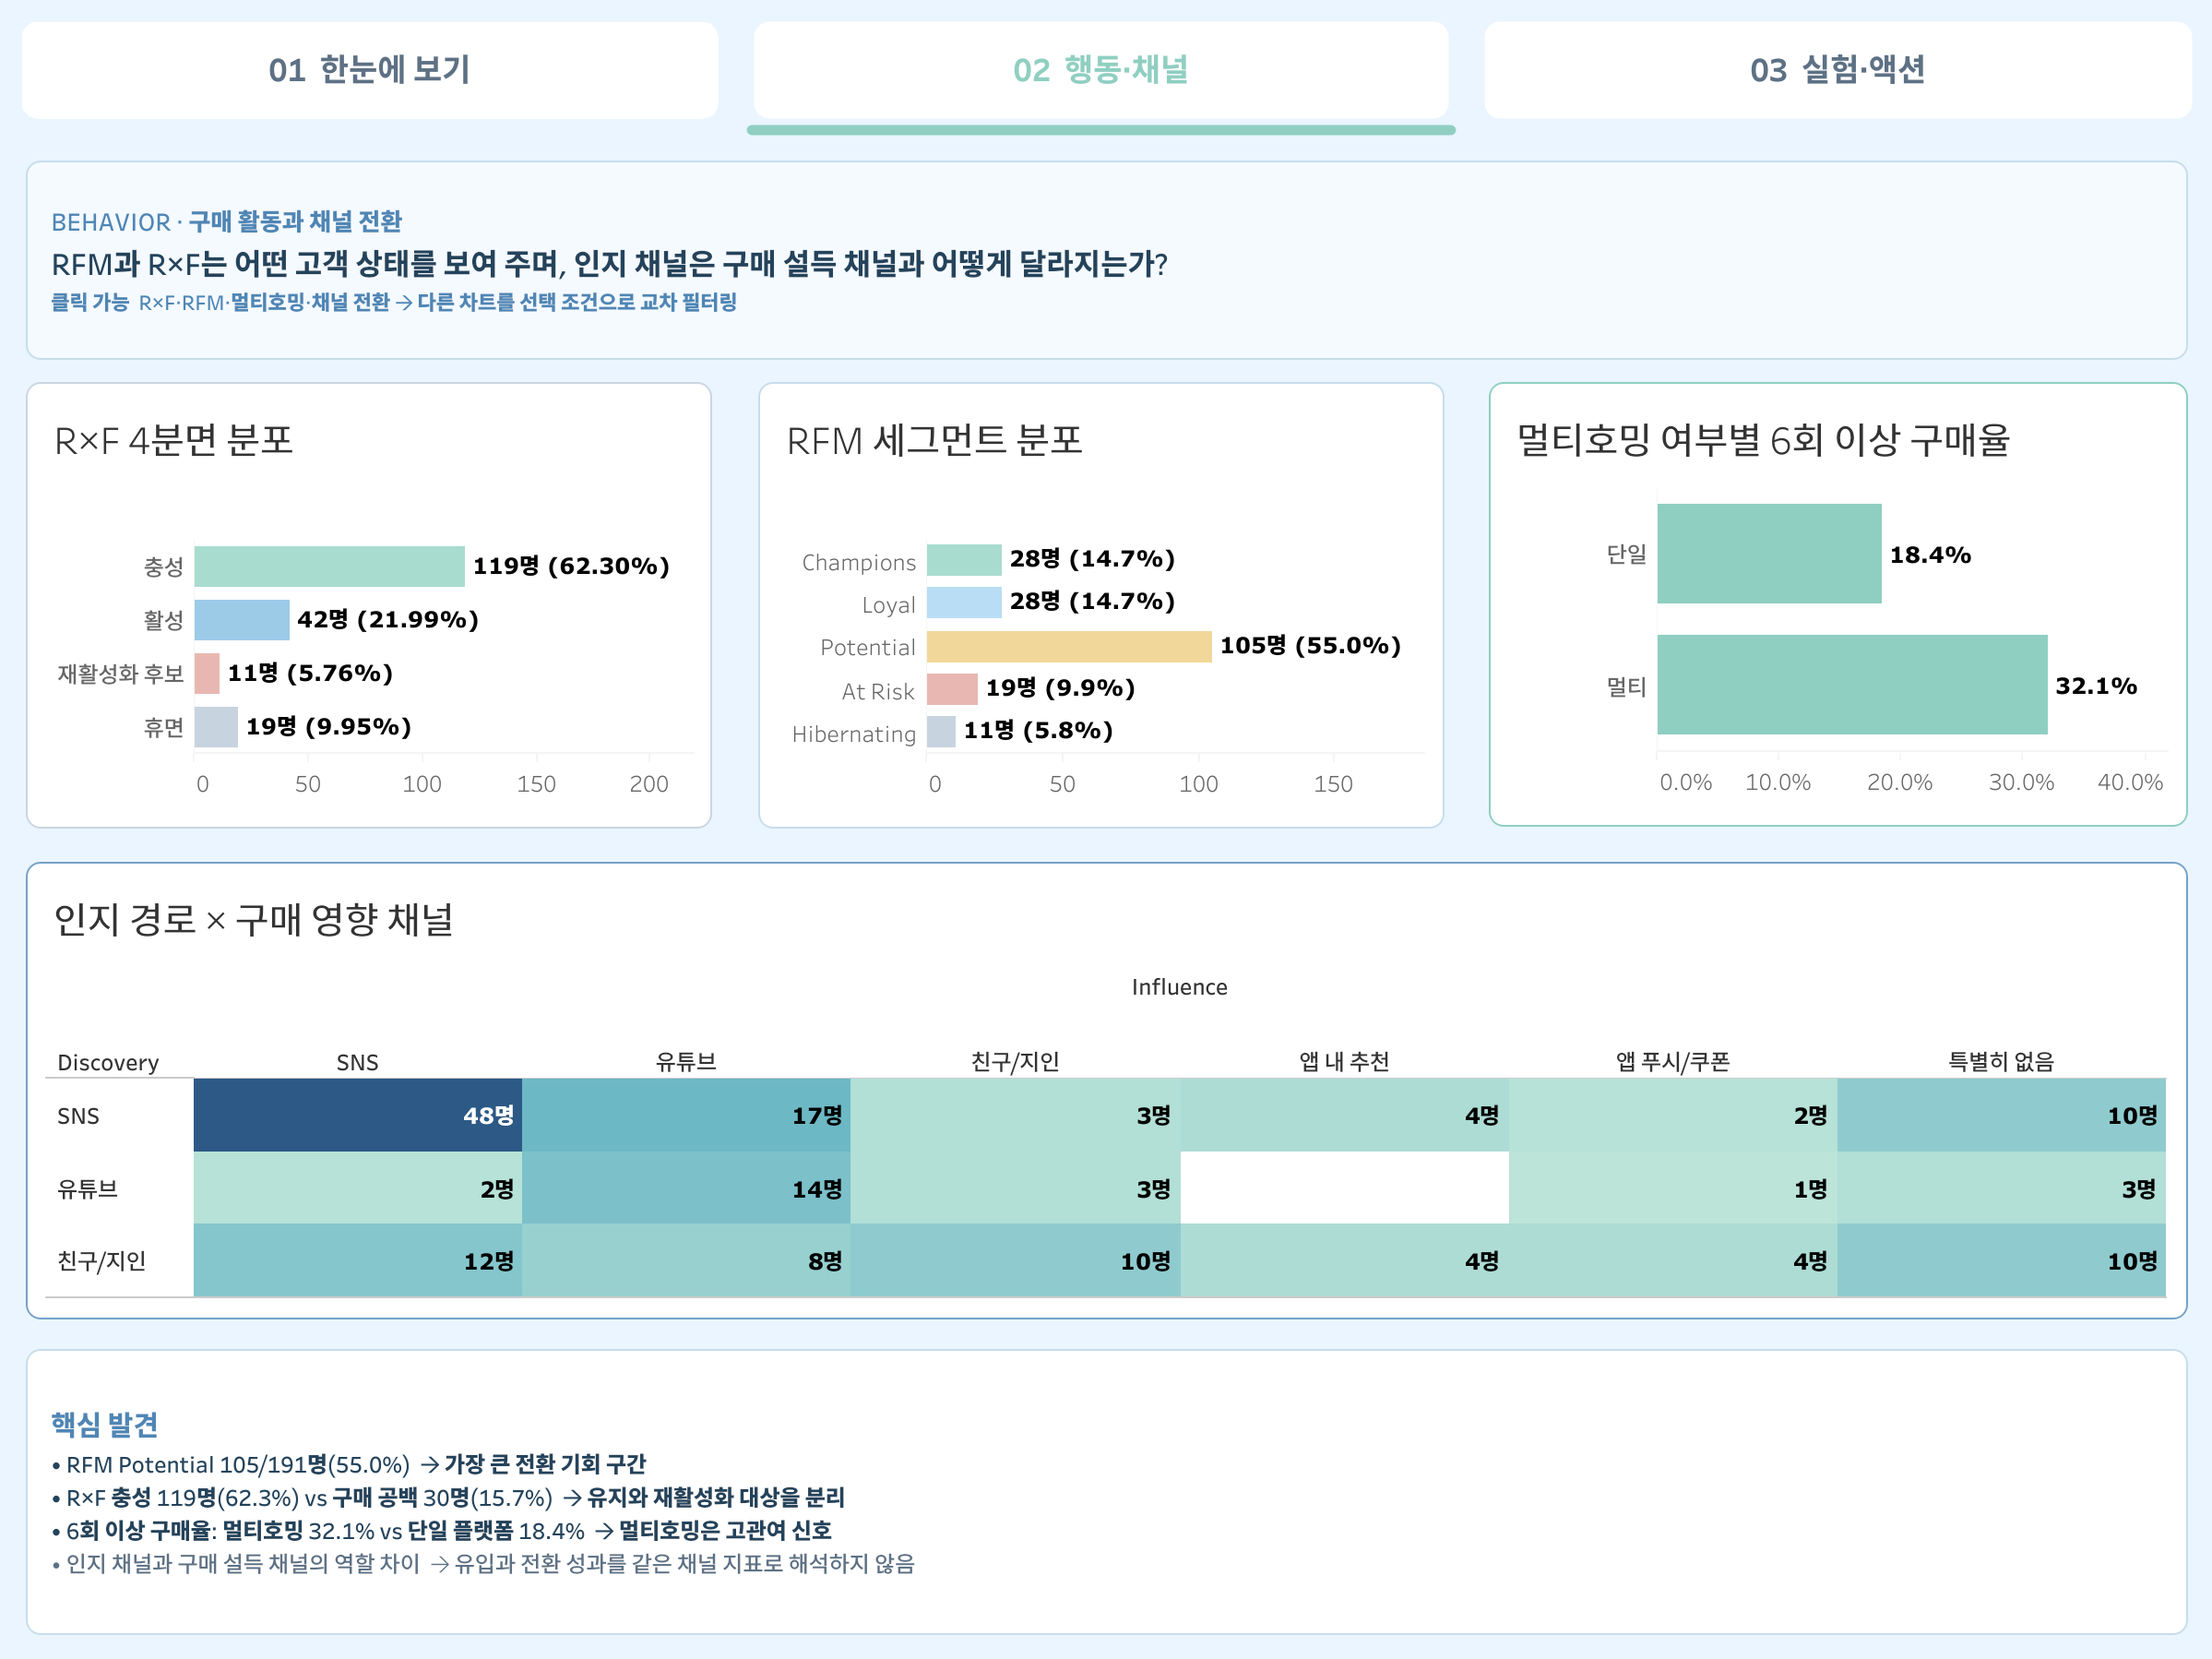
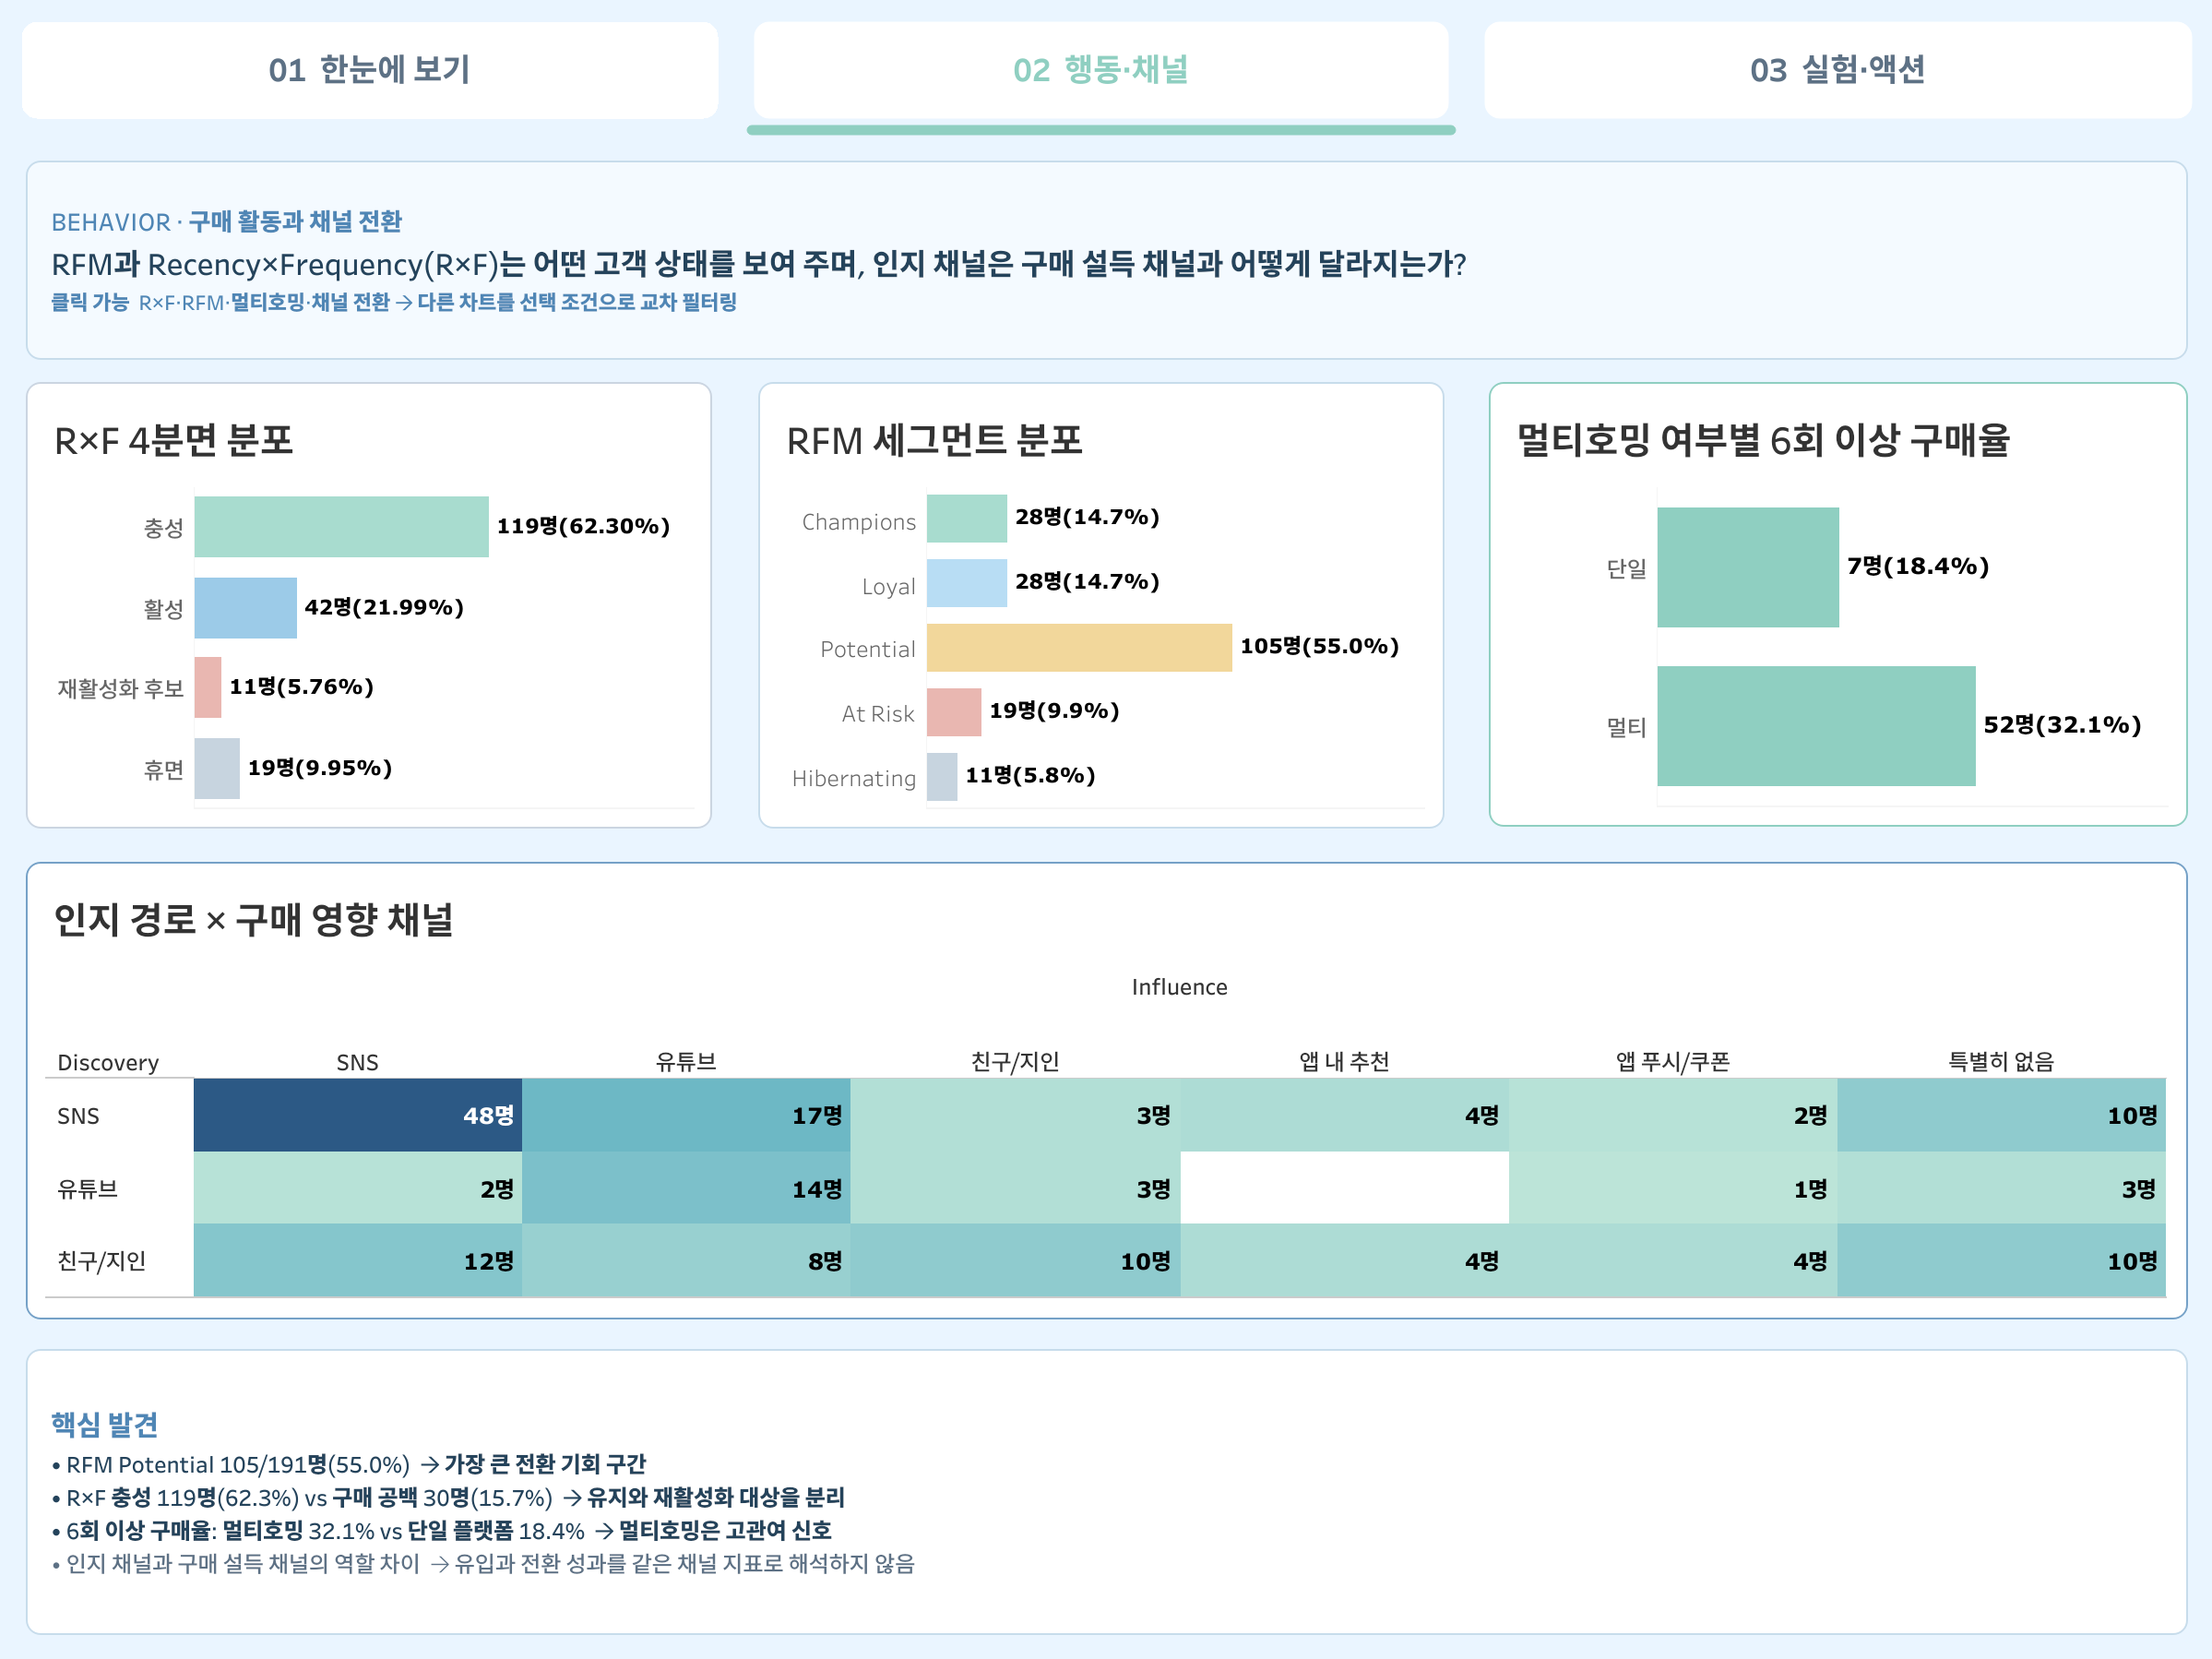
docs: update Tableau dashboard previews

diff --git a/README.md b/README.md
@@ -37,7 +37,7 @@
   <img src="assets/dashboard_experiment_action.png" width="100%" alt="03 실험·액션 — 문제 우선순위와 검증 설계">
 </p>
 
-🔗 **[Tableau Public에서 인터랙티브 대시보드 보기](https://public.tableau.com/app/profile/.16528220/viz/__17824049698050/1)** — 차트의 **연령대·성별** 항목을 클릭하면 전체 대시보드가 해당 집단으로 필터된다. (빈 곳 클릭 시 해제)
+🔗 **[Tableau Public에서 인터랙티브 대시보드 보기](https://public.tableau.com/app/profile/.16528220/viz/__17824049698050/1)** — 상단 내비게이션으로 세 화면을 이동할 수 있다. 01의 **NPS 세그먼트·연령대·성별·플랫폼**, 02의 **R×F·RFM·멀티호밍·채널 전환** 항목을 클릭하면 관련 차트가 교차 필터링된다. (빈 곳 클릭 시 해제)
 
 ---
 
